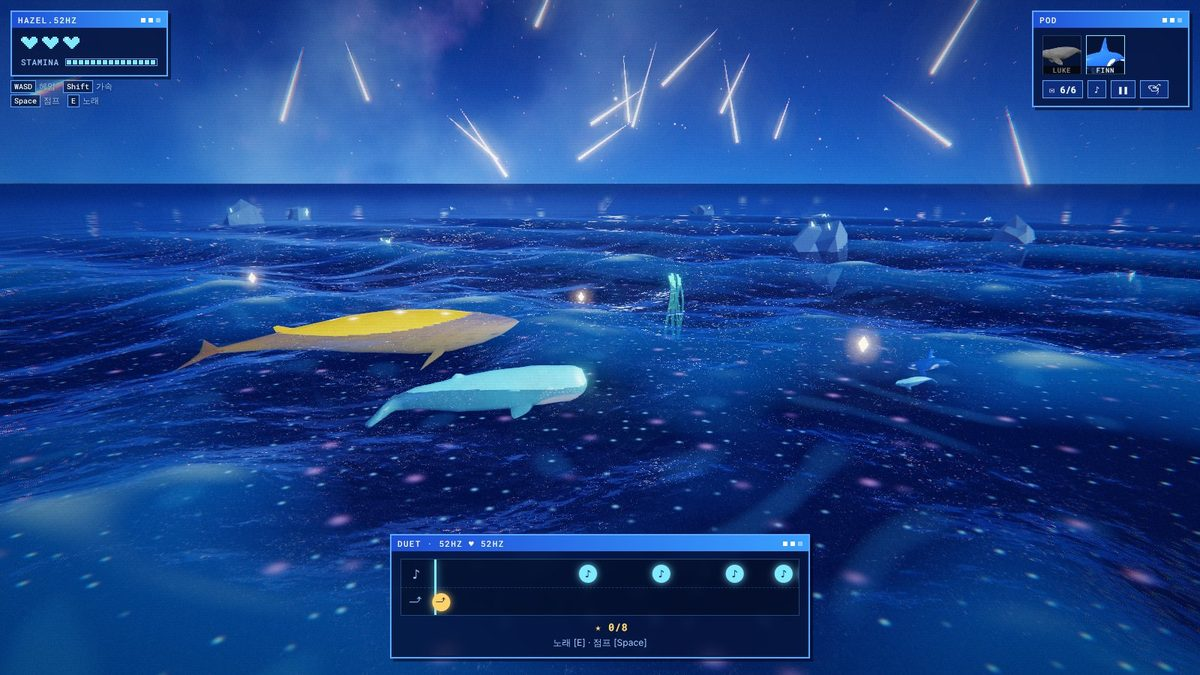
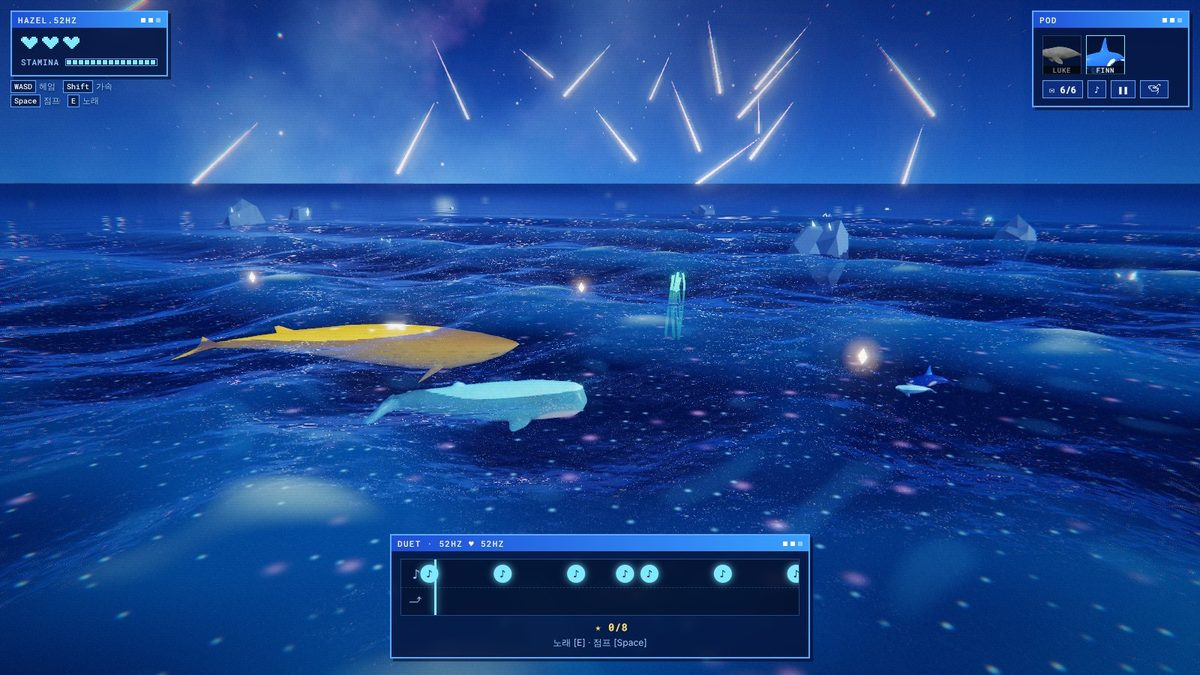
Stella: one six-point sparkle star on her back instead of the zigzag
The glowing pattern is now a single slender six-point sparkle (thin
rays, so it reads as a sparkle rather than two overlapping triangles)
with small four-point sparkles around it. It is drawn stretched along
the body's circumference so it looks round on the whale. README cast
line and duet screenshot updated.

Claude-Session: https://claude.ai/code/session_01PwVrQcZSSozSDsRniHpaet

diff --git a/tools/make_stella.py b/tools/make_stella.py
@@ -221,23 +221,40 @@ def base_texture():
 	return im
 
 
-# 등의 별자리: 빛의 문양 (편지 #05의 S)
-STARS = [ ( 0.17, 0.03, 8 ), ( 0.24, - 0.04, 5 ), ( 0.31, 0.05, 10 ), ( 0.38, - 0.02, 6 ), ( 0.45, 0.04, 9 ), ( 0.52, - 0.05, 5 ), ( 0.58, 0.01, 8 ), ( 0.66, 0.05, 5 ), ( 0.73, - 0.02, 7 ) ]
+# 등의 빛 문양: 등 한가운데의 반짝이는 육각별(✶) 하나 + 둘레의 작은 반짝임
+# 텍스처에서 v(몸 둘레)가 u(몸 길이)보다 촘촘하게 펴지므로, 몸 위에서 동그랗게 보이도록 세로로 ASPECT배 늘려 그린다
+ASPECT = 2.1
+STAR = ( 0.40, 0.0, 24 )  # u, v, 바깥 반지름(px). 꼭짓점이 가늘어야 겹친 삼각형(✡)이 아니라 반짝임으로 보인다
+STAR_INNER = 0.28
+SPARKLES = [ ( 0.24, 0.05, 5 ), ( 0.30, - 0.07, 4 ), ( 0.34, 0.09, 3 ), ( 0.47, - 0.09, 3 ), ( 0.52, 0.06, 5 ), ( 0.58, - 0.05, 4 ), ( 0.66, 0.03, 4 ), ( 0.72, - 0.02, 3 ) ]
+
+
+def star_points( x, y, r, points, inner, rot = 0.0 ):
+
+	out = []
+	for i in range( points * 2 ):
+		a = rot + math.pi * i / points
+		rr = r if i % 2 == 0 else r * inner
+		out.append( ( x + math.cos( a ) * rr, y + math.sin( a ) * rr * ASPECT ) )
+	return out
 
 
 def emissive_texture():
 
-	# 별자리가 등줄기(v=0=1)에 걸쳐 있어서, v -0.5 ~ 1.5 높이로 그린 뒤 0 ~ 1로 접는다
+	# 별이 등줄기(v=0=1)에 걸쳐 있어서, v -0.5 ~ 1.5 높이로 그린 뒤 0 ~ 1로 접는다
 	half = TEX // 2
 	im = Image.new( 'RGB', ( TEX, TEX * 2 ), ( 0, 0, 0 ) )
 	d = ImageDraw.Draw( im )
-	pts = [ ( u * TEX, ( v + 0.5 ) * TEX ) for u, v, _ in STARS ]
-	d.line( pts, fill = ( 120, 96, 40 ), width = 2 )
-	for ( u, v, r ), ( x, y ) in zip( STARS, pts ):
-		d.polygon( [ ( x, y - r * 1.6 ), ( x + r * 0.35, y - r * 0.35 ), ( x + r * 1.6, y ), ( x + r * 0.35, y + r * 0.35 ), ( x, y + r * 1.6 ), ( x - r * 0.35, y + r * 0.35 ), ( x - r * 1.6, y ), ( x - r * 0.35, y - r * 0.35 ) ], fill = ( 255, 236, 170 ) )
-		d.ellipse( ( x - r * 0.45, y - r * 0.45, x + r * 0.45, y + r * 0.45 ), fill = ( 255, 252, 235 ) )
-	glow = im.filter( ImageFilter.GaussianBlur( 3 ) )
-	tall = np.clip( np.asarray( im, float ) + np.asarray( glow, float ) * 0.8, 0, 255 )
+	u, v, r = STAR
+	x, y = u * TEX, ( v + 0.5 ) * TEX
+	d.polygon( star_points( x, y, r, 6, STAR_INNER ), fill = ( 255, 236, 170 ) )  # 꼭짓점 하나가 머리 쪽을 본다
+	d.ellipse( ( x - r * 0.3, y - r * 0.3 * ASPECT, x + r * 0.3, y + r * 0.3 * ASPECT ), fill = ( 255, 252, 236 ) )
+	for u, v, r in SPARKLES:
+		x, y = u * TEX, ( v + 0.5 ) * TEX
+		d.polygon( star_points( x, y, r, 4, 0.3, - math.pi / 2 ), fill = ( 255, 230, 160 ) )
+	halo = im.filter( ImageFilter.GaussianBlur( 7 ) )
+	glow = im.filter( ImageFilter.GaussianBlur( 2.5 ) )
+	tall = np.clip( np.asarray( im, float ) + np.asarray( glow, float ) * 0.7 + np.asarray( halo, float ) * 1.1, 0, 255 )
 	# 밤바다에서도 금빛 고래로 보이게 몸 전체가 은은하게 빛난다 (등 쪽이 조금 더)
 	vv = ( np.arange( TEX * 2 ) + 0.5 ) / TEX - 0.5
 	back = ( 1 + np.cos( 2 * math.pi * vv ) ) / 2

diff --git a/README.md b/README.md
@@ -59,7 +59,7 @@ WebGL Three.js Project about Blue and Whale
 | 연합군 | 범고래 무리 | `data/orca_army/Orca_Army.glb` |
 | 연합군 대장 · 샤먼 | 분홍 범고래 | `Orca_Army.glb` + `recolor` |
 | 모비 딕 | 향유고래, 마지막 보스 | `data/moby/Moby.glb` |
-| 스텔라 | 노란 대왕고래, 또 하나의 52Hz, 등의 별자리 문양 | `data/stella/Stella.glb` (코드로 생성: `tools/make_stella.py`) |
+| 스텔라 | 노란 대왕고래, 또 하나의 52Hz, 등의 반짝이는 육각별 문양 | `data/stella/Stella.glb` (코드로 생성: `tools/make_stella.py`) |
 
 색 옵션 (`game/js/actors.js`의 `Whale`): `solidColor` 단색, `recolor: [ 어두운 색, 밝은 색 ]` 무늬 유지 색 변경
 
